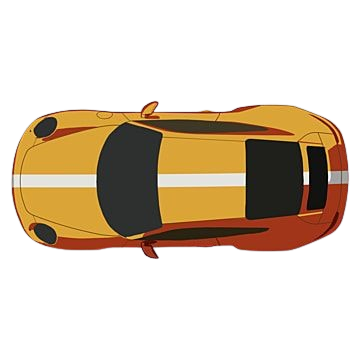
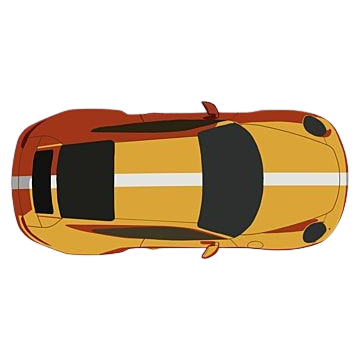
Style: mobile style optimized

Changed region(s): [[0.0306, 0.275, 0.9778, 0.7333]]

diff --git a/app/page.module.css b/app/page.module.css
@@ -22,6 +22,8 @@
   transform: rotate(10deg) scaleY(-1);
 }
 .content .logo {
+  position: relative;
+  top: -10rem;
   margin: 7rem auto 0 auto;
 }
 .content section {
@@ -83,10 +85,9 @@
   align-items: center;
 }
 .roadAnimationContainer .car{
-  position: absolute;
-  top: -6.5rem;
+  position:absolute;
   z-index: 10000;
-  transform: rotate(180deg);
+  transform: translateY(6rem);
   animation: carAnimation 1.5s infinite;
 }
 @keyframes carAnimation {
@@ -129,7 +130,7 @@
     transform: rotate(0deg); /* Rotation only */
   }
   100% {
-    transform: rotate(360deg); /* Complete rotation */
+    transform: rotate(-360deg); /* Complete rotation */
   }
 }
 
